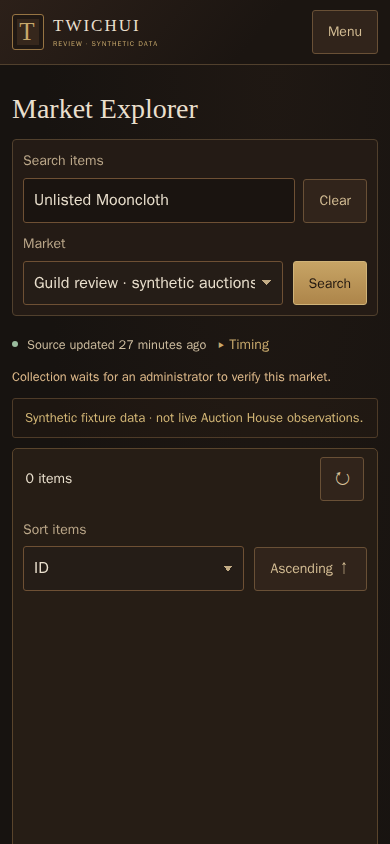
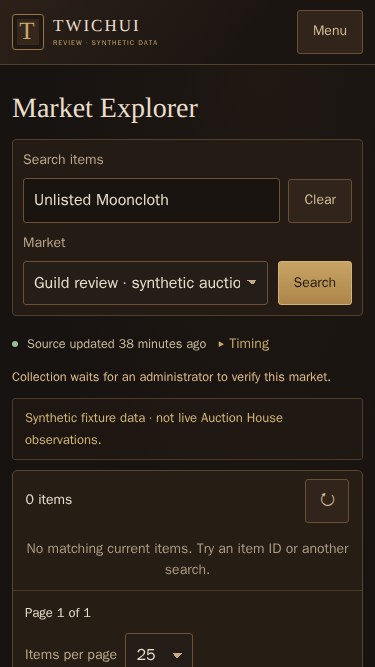
Capture the visible empty-search guidance and expanded phone comparison

diff --git a/docs/evidence/market-ux/README.md b/docs/evidence/market-ux/README.md
@@ -10,6 +10,6 @@ The phone captures use 390 × 844 CSS pixels unless indicated. The baseline is t
 | Investigate installation health | ![Earlier Administration landing page](before-admin.png) | ![Administration summaries and review links](after-admin.png) |
 | Check Companion delivery or add a PC | ![Earlier Companion dashboard](before-companion.png) | ![Returning user's Companion dashboard](after-companion.png) |
 
-The [desktop comparison](desktop-explorer.png) shows the outer catalogue and exact-variant columns. The [empty search](after-empty.png) shows a query with no matches. The [questionable reference at 375 pixels](reference-needs-review.png) shows the 3-copper asking price and its evidence link. The [ordinary-member Companion screen](after-beta.png) provides the Windows handoff.
+The [desktop comparison](desktop-explorer.png) shows the outer catalogue and exact-variant columns. The [empty search at 375 × 667](after-empty.png) shows its recovery guidance within the first screen. The [questionable reference at 375 pixels](reference-needs-review.png) shows the 3-copper asking price and its evidence link. The [ordinary-member Companion screen](after-beta.png) provides the Windows handoff.
 
 The [UTC calendar](after-calendar.png) shows a mixed day from the running review's simulated backup service. The [WebKit backup dialog](after-webkit-backup-details.png) uses controlled browser fixture records to show the heading, dismissal control and archive safety state. See the [functional acceptance matrix](acceptance.md) and [implementation inventory](../../market-ux-redesign-inventory.md).
